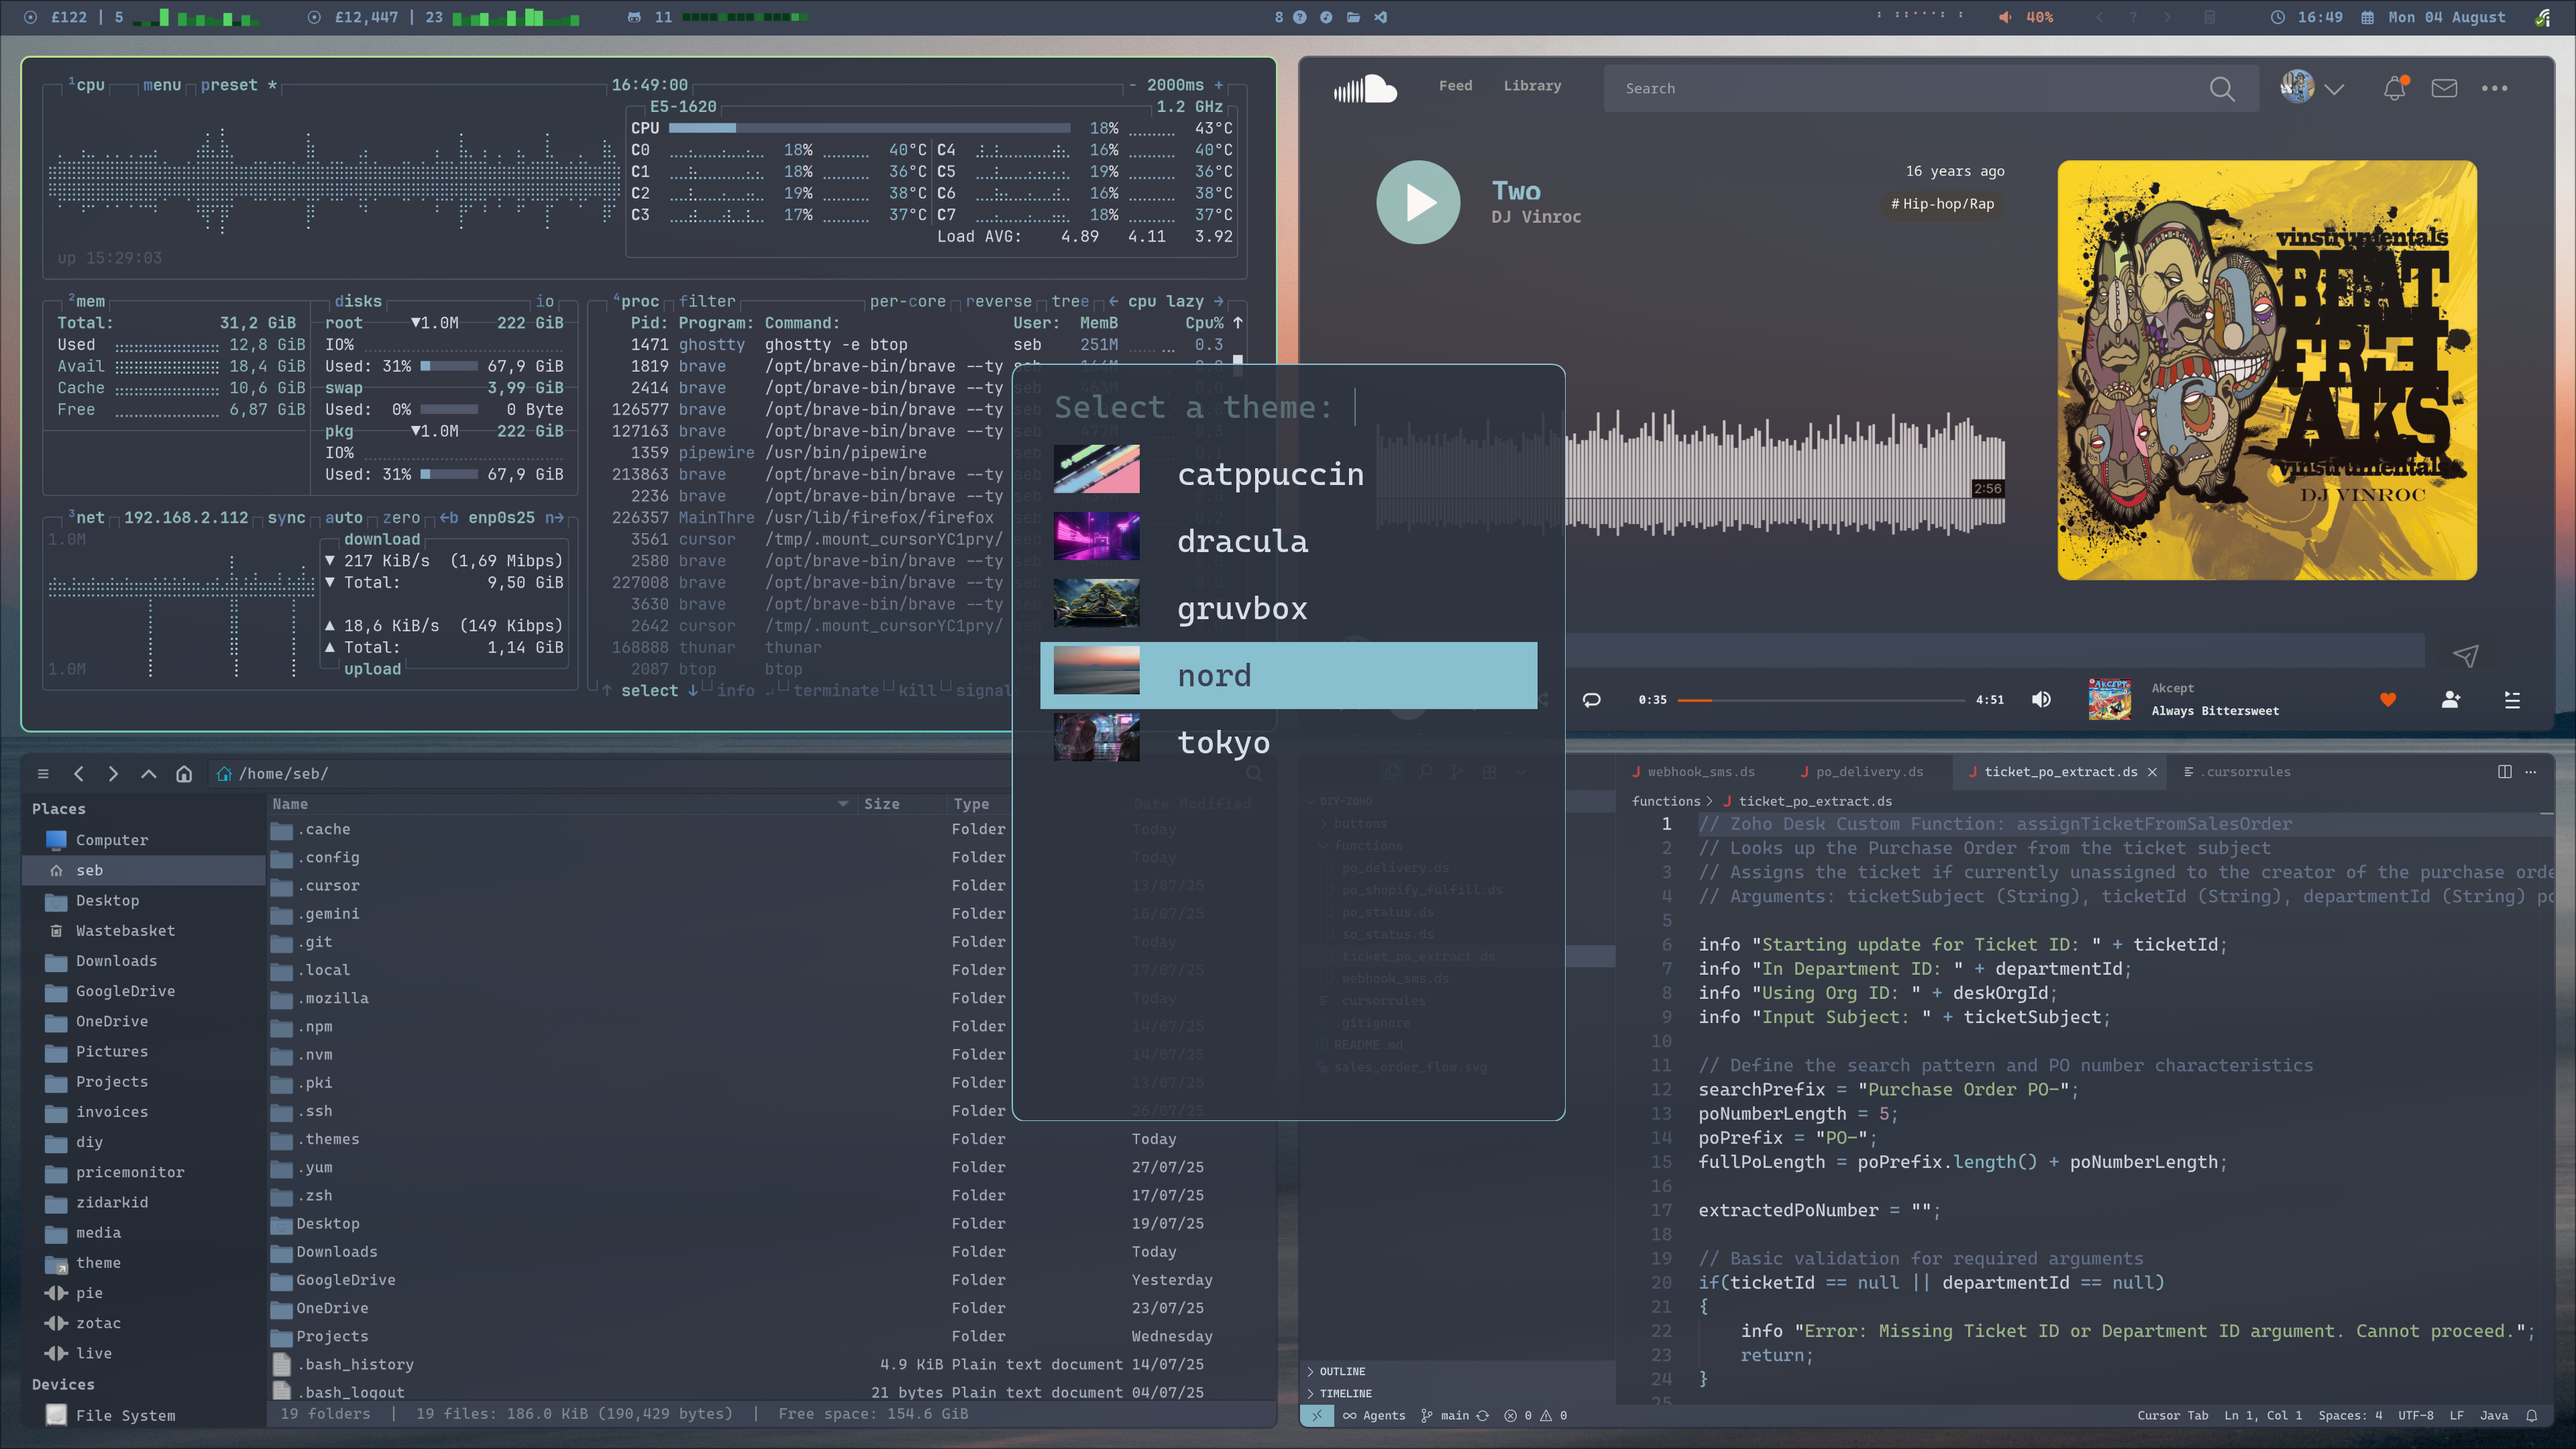
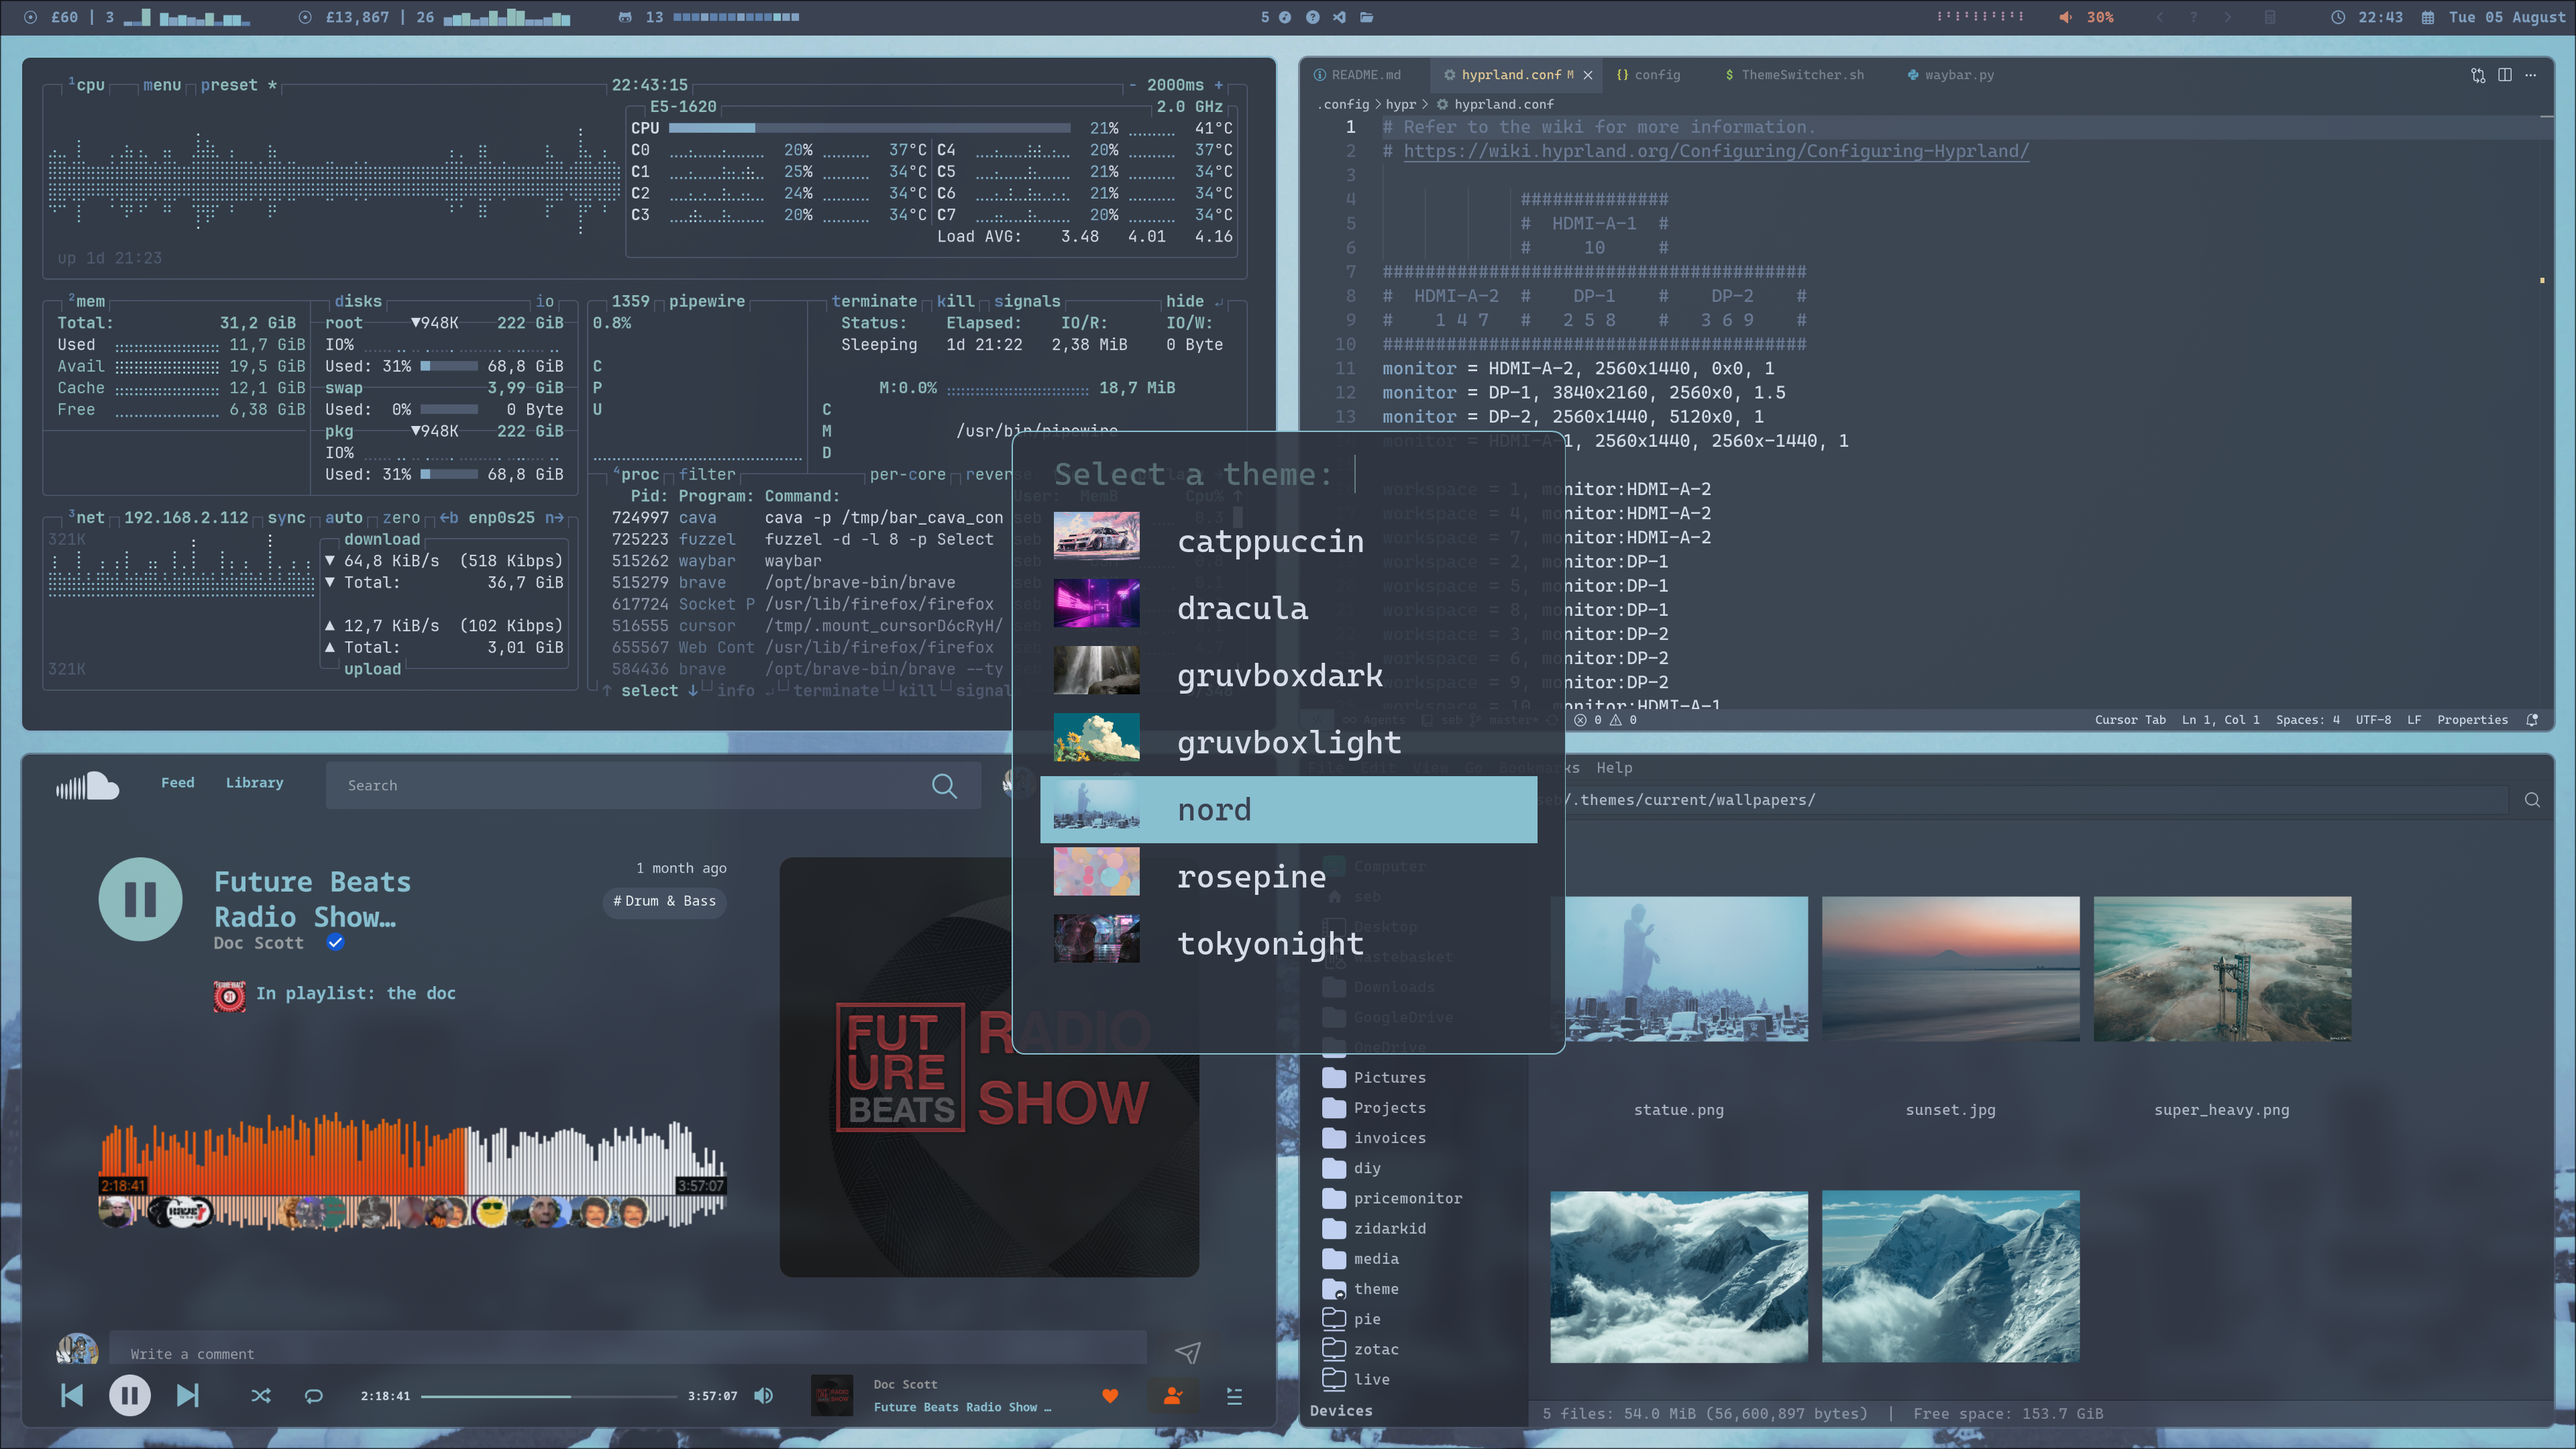
new screenshots

diff --git a/README.md b/README.md
@@ -67,11 +67,17 @@ To add a new theme, download a GTK theme into the `.themes` directory and add th
 [![screenshot](https://raw.githubusercontent.com/sebday/hyprdots/refs/heads/master/.config/hypr/screens/theme_dracula.png)](https://raw.githubusercontent.com/sebday/hyprdots/refs/heads/master/.config/hypr/screens/theme_dracula.png)
 *Dracula theme*
 
-[![screenshot](https://raw.githubusercontent.com/sebday/hyprdots/refs/heads/master/.config/hypr/screens/theme_gruvbox.png)](https://raw.githubusercontent.com/sebday/hyprdots/refs/heads/master/.config/hypr/screens/theme_gruvbox.png)
-*Gruvbox theme*
+[![screenshot](https://raw.githubusercontent.com/sebday/hyprdots/refs/heads/master/.config/hypr/screens/theme_gruvboxdark.png)](https://raw.githubusercontent.com/sebday/hyprdots/refs/heads/master/.config/hypr/screens/theme_gruvboxdark.png)
+*Gruvbox Dark theme*
+
+[![screenshot](https://raw.githubusercontent.com/sebday/hyprdots/refs/heads/master/.config/hypr/screens/theme_gruvboxlight.png)](https://raw.githubusercontent.com/sebday/hyprdots/refs/heads/master/.config/hypr/screens/theme_gruvboxlight.png)
+*Gruvbox Light theme*
 
 [![screenshot](https://raw.githubusercontent.com/sebday/hyprdots/refs/heads/master/.config/hypr/screens/theme_nord.png)](https://raw.githubusercontent.com/sebday/hyprdots/refs/heads/master/.config/hypr/screens/theme_nord.png)
 *Nord theme*
+
+[![screenshot](https://raw.githubusercontent.com/sebday/hyprdots/refs/heads/master/.config/hypr/screens/theme_rosepine.png)](https://raw.githubusercontent.com/sebday/hyprdots/refs/heads/master/.config/hypr/screens/theme_rosepine.png)
+*Rose Pine theme*
 
 [![screenshot](https://raw.githubusercontent.com/sebday/hyprdots/refs/heads/master/.config/hypr/screens/theme_tokyo.png)](https://raw.githubusercontent.com/sebday/hyprdots/refs/heads/master/.config/hypr/screens/theme_tokyo.png)
 *Tokyo theme*
